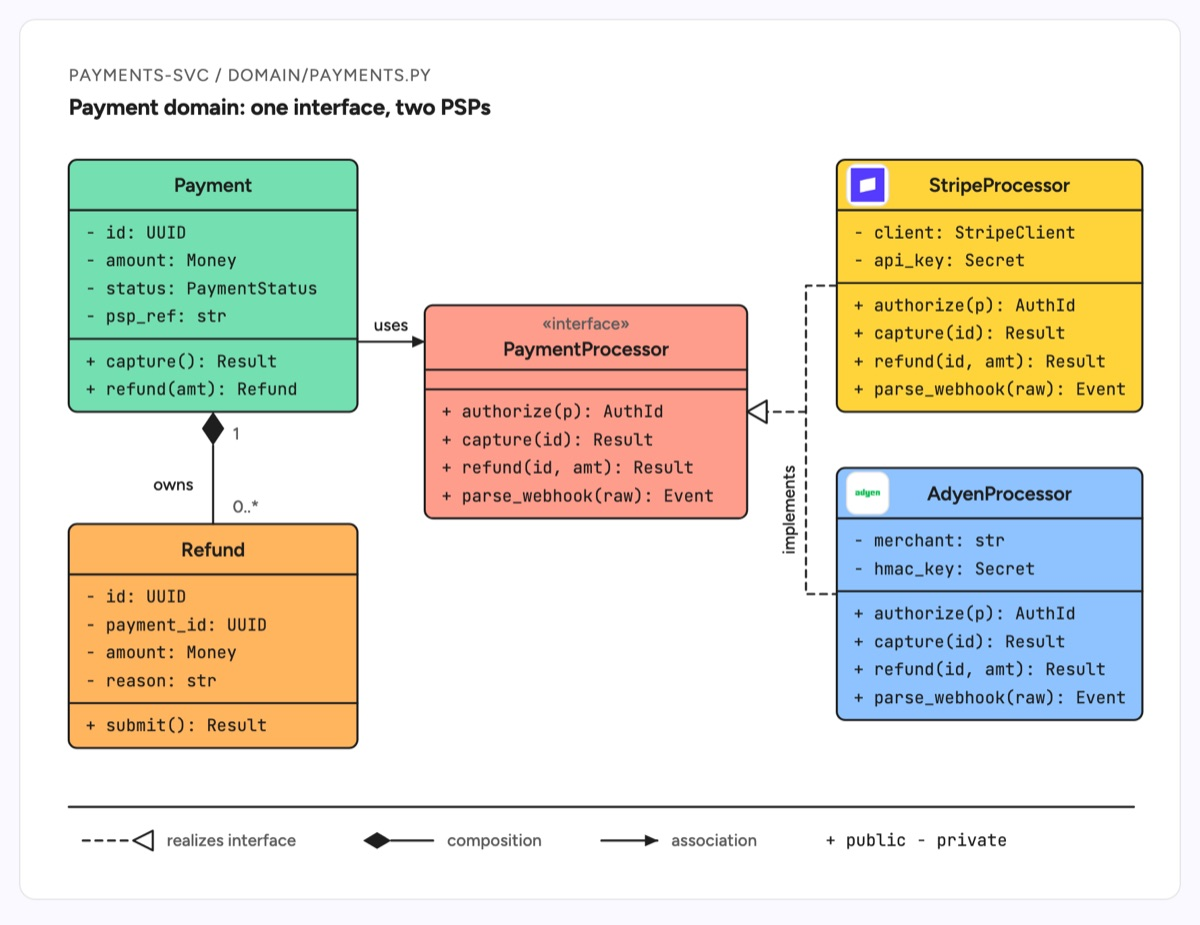
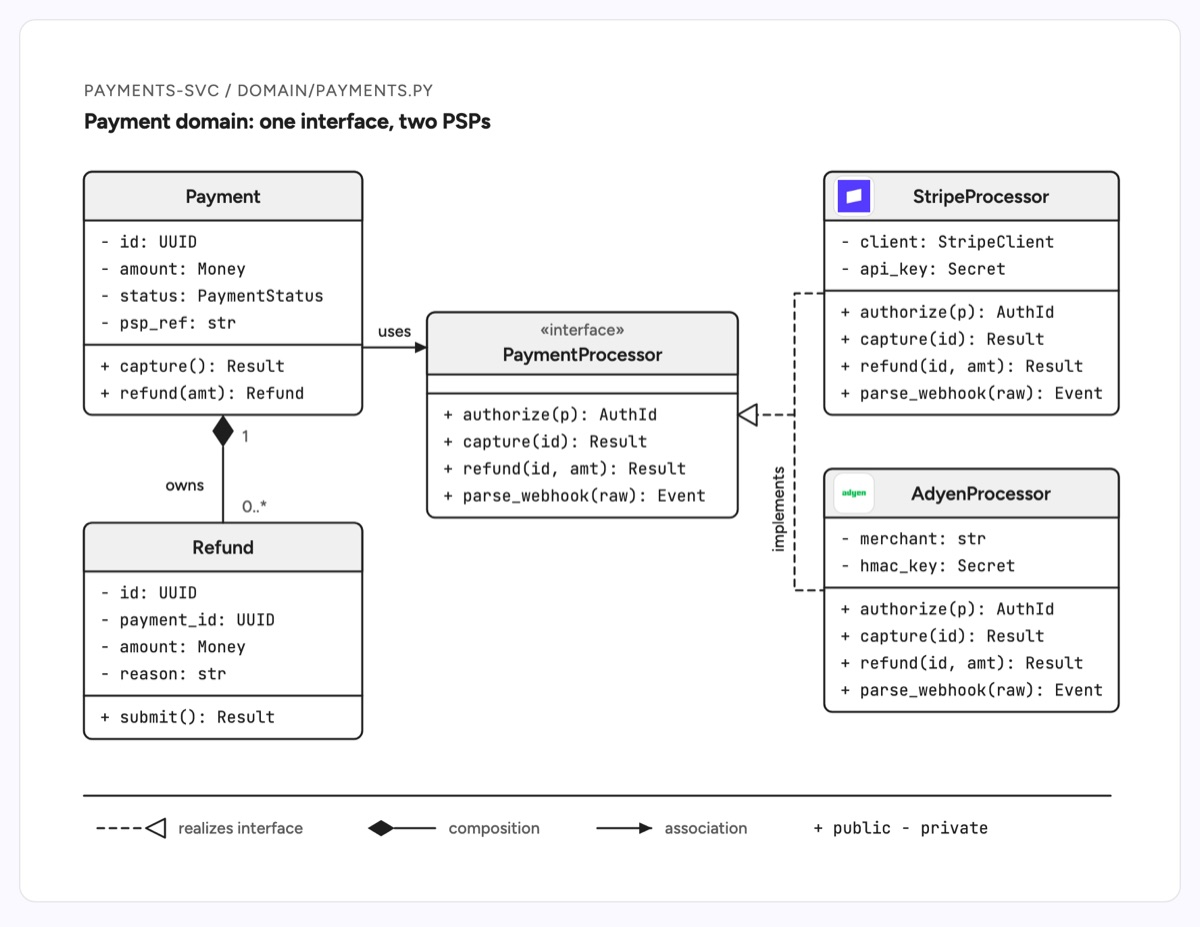
Make ER and class diagram examples neutral

diff --git a/diagram-types/mapping/er-diagram/README.md b/diagram-types/mapping/er-diagram/README.md
@@ -18,13 +18,14 @@ Not for: query plans or data flow between services (use `data-pipeline` or `sequ
 
 | Part | Class | Rule |
 |---|---|---|
-| Table | `d-box g1`..`g5` | Name in a header row (`d-t`), one row per column, 22 units tall |
+| Table | `d-box` + `d-band` header | White box, thin ink outline; the name (`d-t`) sits in a light grey `d-band` header with no g-colour, then one row per column, 22 units tall |
 | Column | `d-m` + `d-s` | Field name in mono on the left, type right-aligned and muted |
-| Key tag | `d-tag acc` / `d-tag` + `d-k` | `PK` filled, `FK` outlined; only on key columns |
-| Relationship | `d-box g3` diamond + `d-t` | A verb ("owns", "ships") on long edges; short edges use a `d-lab` |
+| Key tag | `d-tag acc` / `d-tag` + `d-k` | `PK` filled, `FK` outlined; only on key columns. The filled PK tag is the only colour in the diagram, and the legend explains it |
+| Relationship | `d-box` diamond + `d-t` | White diamond with a verb ("owns", "ships") on long edges; short edges use a `d-lab` |
 | Cardinality | `d-edge` | Two bars for exactly one, crow's foot plus bar for one or many, crow's foot plus circle for zero or many (a parent row that may have no children yet), drawn at the table edge |
-| Constraint note | `d-note` + `d-tn` | Uniqueness or cascade rules, placed in empty space near the table |
+| Constraint note | `d-blob2` + `d-tn` | Uniqueness or cascade rules in a dashed neutral box, placed in empty space near the table |
 | Legend | `d-s` | Explain notation once, below a rule line |
+| Colour | at most one meaning | Structure diagrams stay neutral; spend one colour on one meaning (here the primary key; on a change review, new or changed columns) and put it in the legend |
 
 ## Tips
 
@@ -32,6 +33,7 @@ Not for: query plans or data flow between services (use `data-pipeline` or `sequ
 - Keep only the columns that matter to the story; four or five per table is plenty.
 - Name relationships with a verb read from the "one" side to the "many" side.
 - Add the engine logo (`postgresql.org`) so the dialect is obvious.
+- Keep at least 32 units of clear margin inside the viewBox on every side; this example widens the viewBox to `-12 -12 824 698` around content drawn from x=20.
 
 Reference: Figma template Entity relationship diagram
 

diff --git a/diagram-types/mapping/class-diagram/README.md b/diagram-types/mapping/class-diagram/README.md
@@ -18,13 +18,14 @@ Not for: runtime call order (use `sequence-diagram`) or database tables (use `er
 
 | Part | Class | Rule |
 |---|---|---|
-| Class | `d-box g1`..`g5` | Three compartments split by `d-line`: name, fields, methods |
-| Interface | `d-box` + `d-s` stereotype | `«interface»` above the name; the field compartment stays empty |
+| Class | `d-box` + `d-band` header | White box, thin ink outline; the name sits in a light grey `d-band` header (no g-colour), then fields and methods split by a `d-line` |
+| Interface | `d-box` + `d-band` + `d-s` stereotype | `«interface»` above the name inside the header band; the field compartment stays empty |
 | Member | `d-m` | Mono, prefixed `+` public or `-` private, `name: Type` |
 | Vendor logo | `d-logo` | In the header of a class that wraps a real product |
 | Realization | `d-edge dash` + hollow `d-fillpaper` triangle | Forked lines merge into one triangle at the interface |
 | Composition | `d-fillink` diamond + `d-edge` | Filled diamond on the owner, multiplicities as `d-s` |
 | Association | `d-edge` + marker + `d-lab` | Arrow with a verb label ("uses") |
+| Colour | none, or one `g` colour | Structure diagrams stay neutral; if colour carries one meaning (such as new or changed members), use one colour for it and add it to the legend |
 
 ## Tips
 
@@ -32,6 +33,7 @@ Not for: runtime call order (use `sequence-diagram`) or database tables (use `er
 - Show only the members that explain the design; three or four per compartment.
 - A class that realizes an interface lists every interface method, so a missing one reads as a bug, not a shortcut.
 - Put multiplicities (`1`, `0..*`) at both ends of a composition so ownership is unambiguous.
+- Keep at least 32 units of clear margin inside the viewBox on every side; this example widens the viewBox to `-12 -12 830 624` around content drawn from x=20.
 
 Reference: Figma template Class diagram
 
